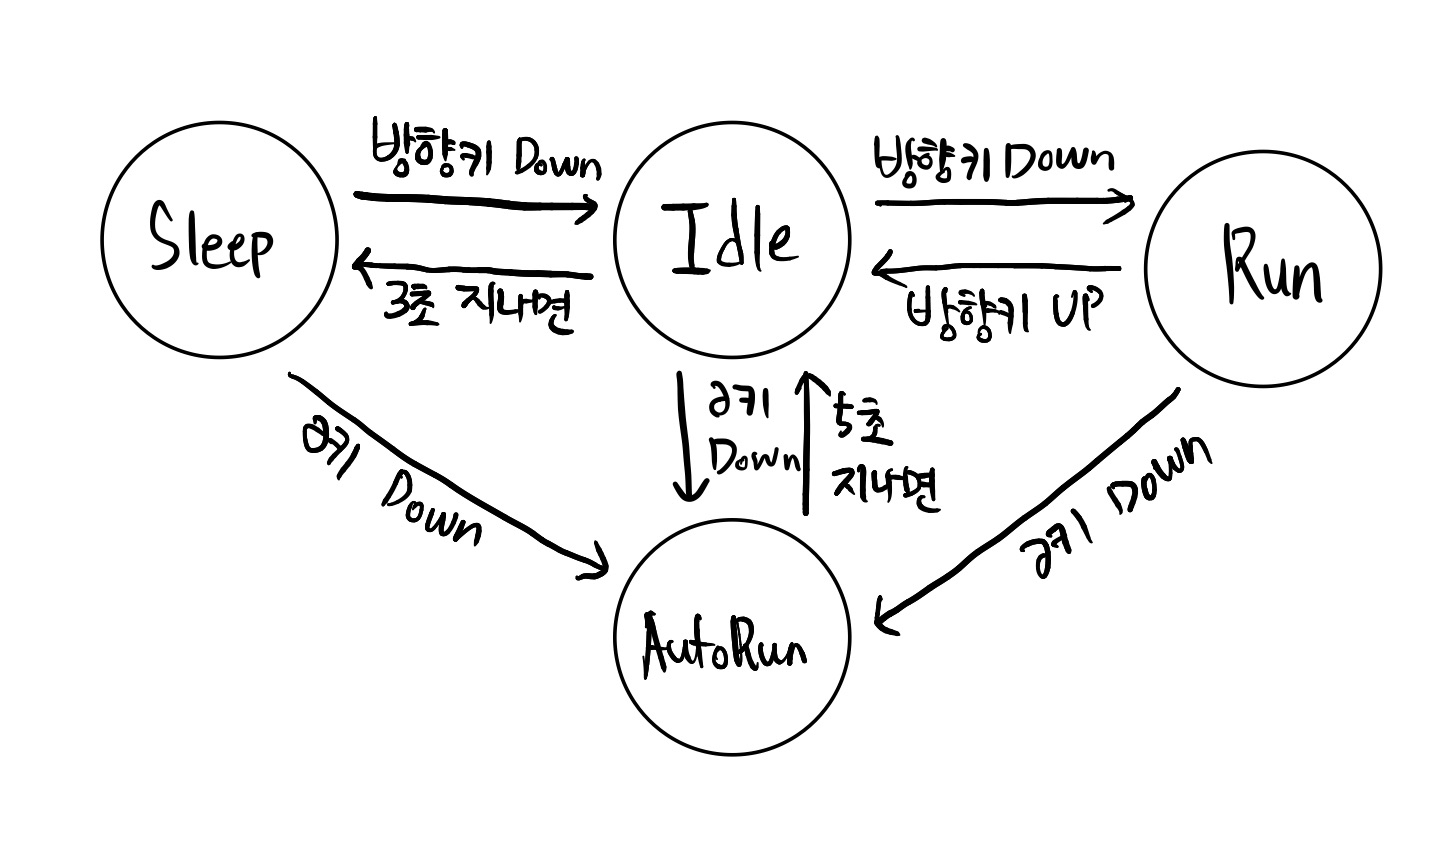
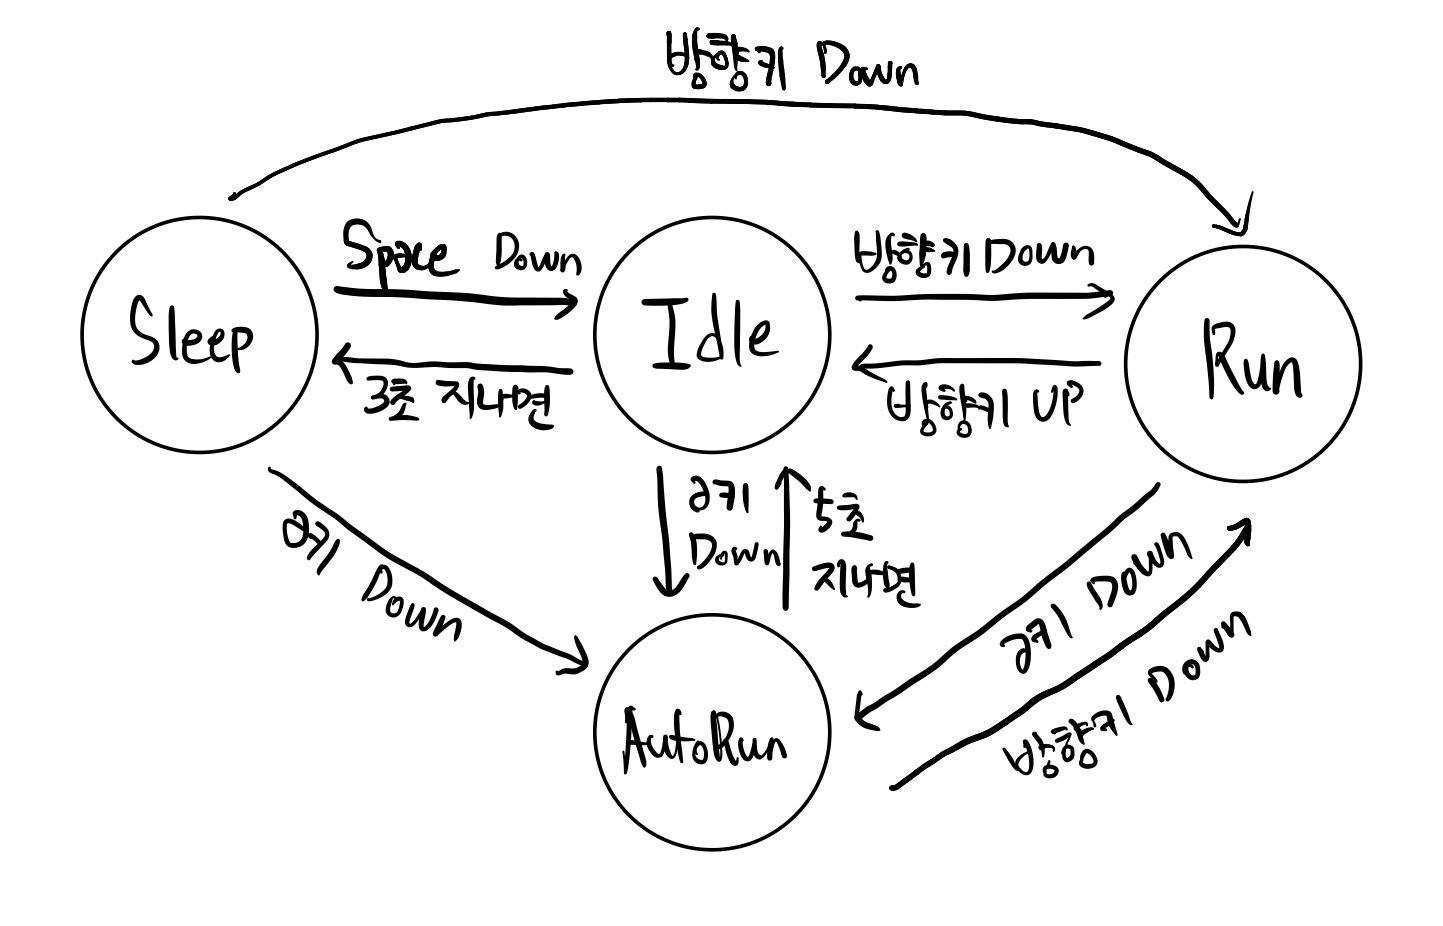
Drill 08 제출(2021184041 양주호)

diff --git a/boy.py b/boy.py
@@ -16,7 +16,7 @@ class Boy:
         Idle : { right_down : Run, left_down : Run, left_up : Run, right_up : Run, time_out : Sleep, a_down : AutoRun }, # key는 cur_state : val은 다시 Dictionary
         Run : {right_down: Idle, left_down: Idle, right_up: Idle, left_up: Idle, a_down : AutoRun}, # Run 상태에서 어떤 이벤트가 들어와도 처리하지 않겠다
         Sleep : { right_down: Run, left_down: Run, right_up: Run, left_up: Run, space_down : Idle, a_down : AutoRun },
-        AutoRun : {time_out : Idle}
+        AutoRun : {right_down: Run, left_down: Run, time_out : Idle}
       }
     )
 
@@ -95,7 +95,7 @@ class Run:
   @staticmethod
   def enter(boy, e):
     if right_down(e) or left_up(e):
-      boy.dir = 1 # 오른쪽 방ㅎ량
+      boy.dir = 1 # 오른쪽 방향
       boy.face_dir = 1
       boy.action = 1
     elif left_down(e) or right_up(e):
@@ -109,6 +109,12 @@ class Run:
     pass
   @staticmethod
   def do(boy):
+    if boy.x > 780:
+      boy.x = 780
+      return
+    if boy.x < 10:
+      boy.x = 10
+      return
     boy.x += boy.dir*boy.speed
     boy.frame = (boy.frame + 1) % 8
     pass
